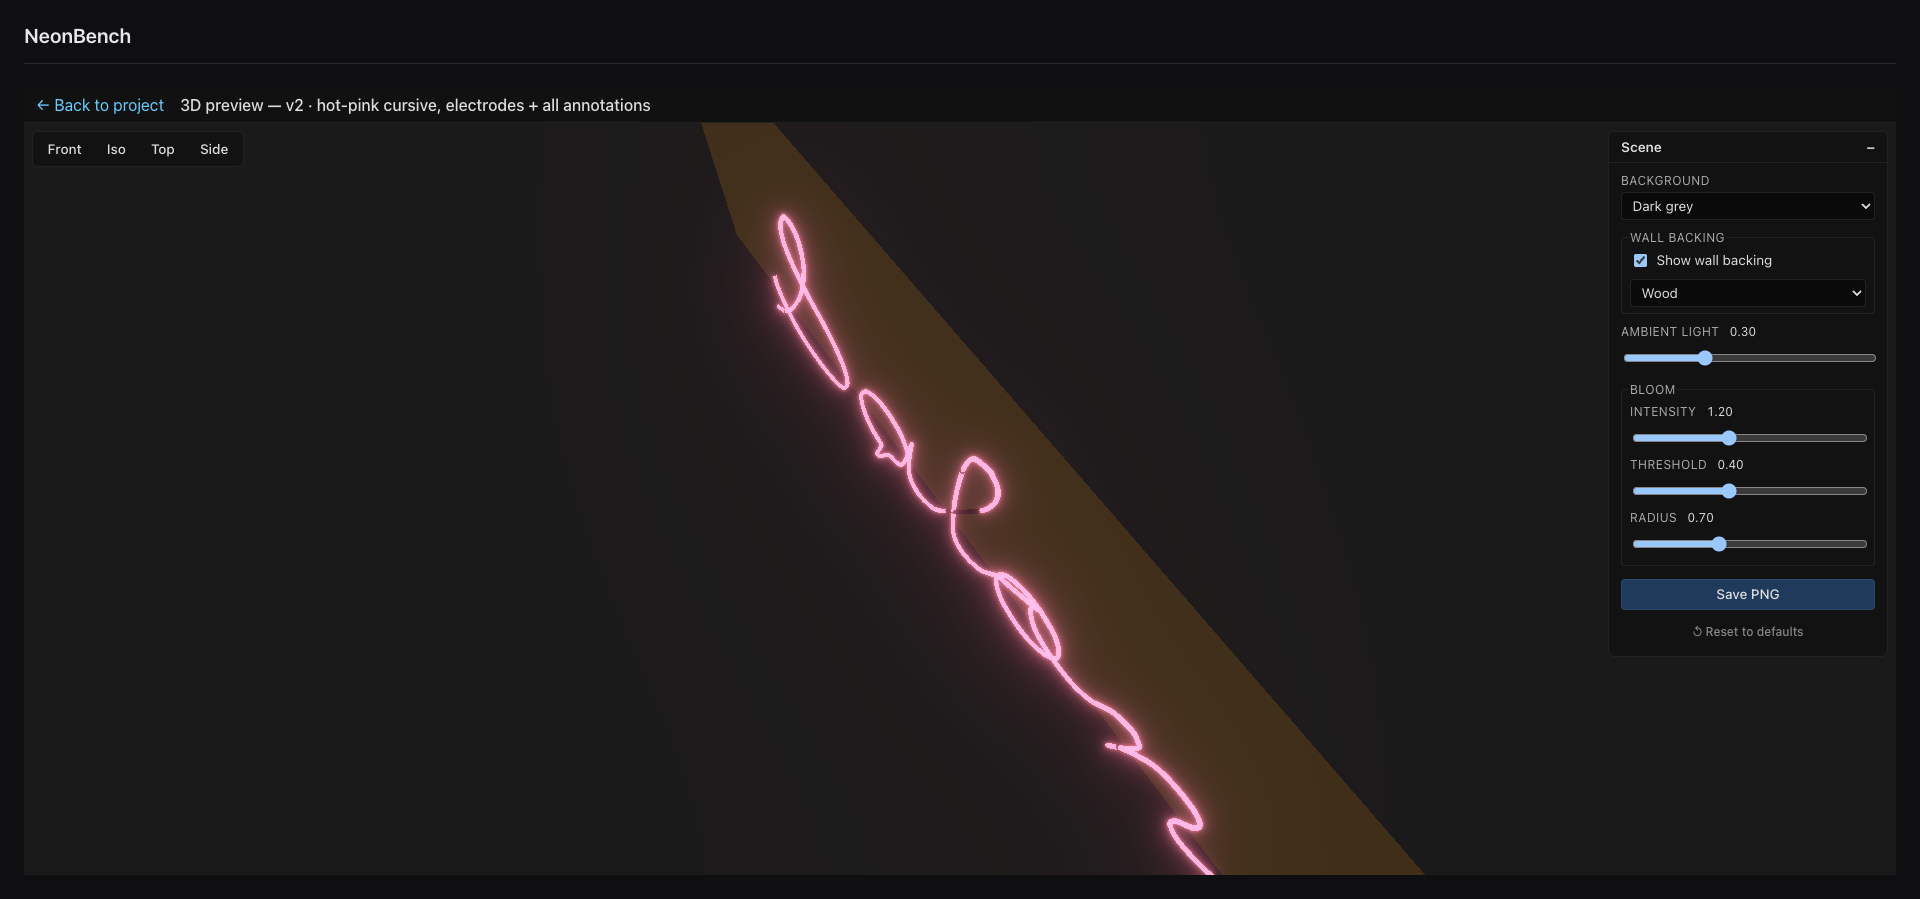
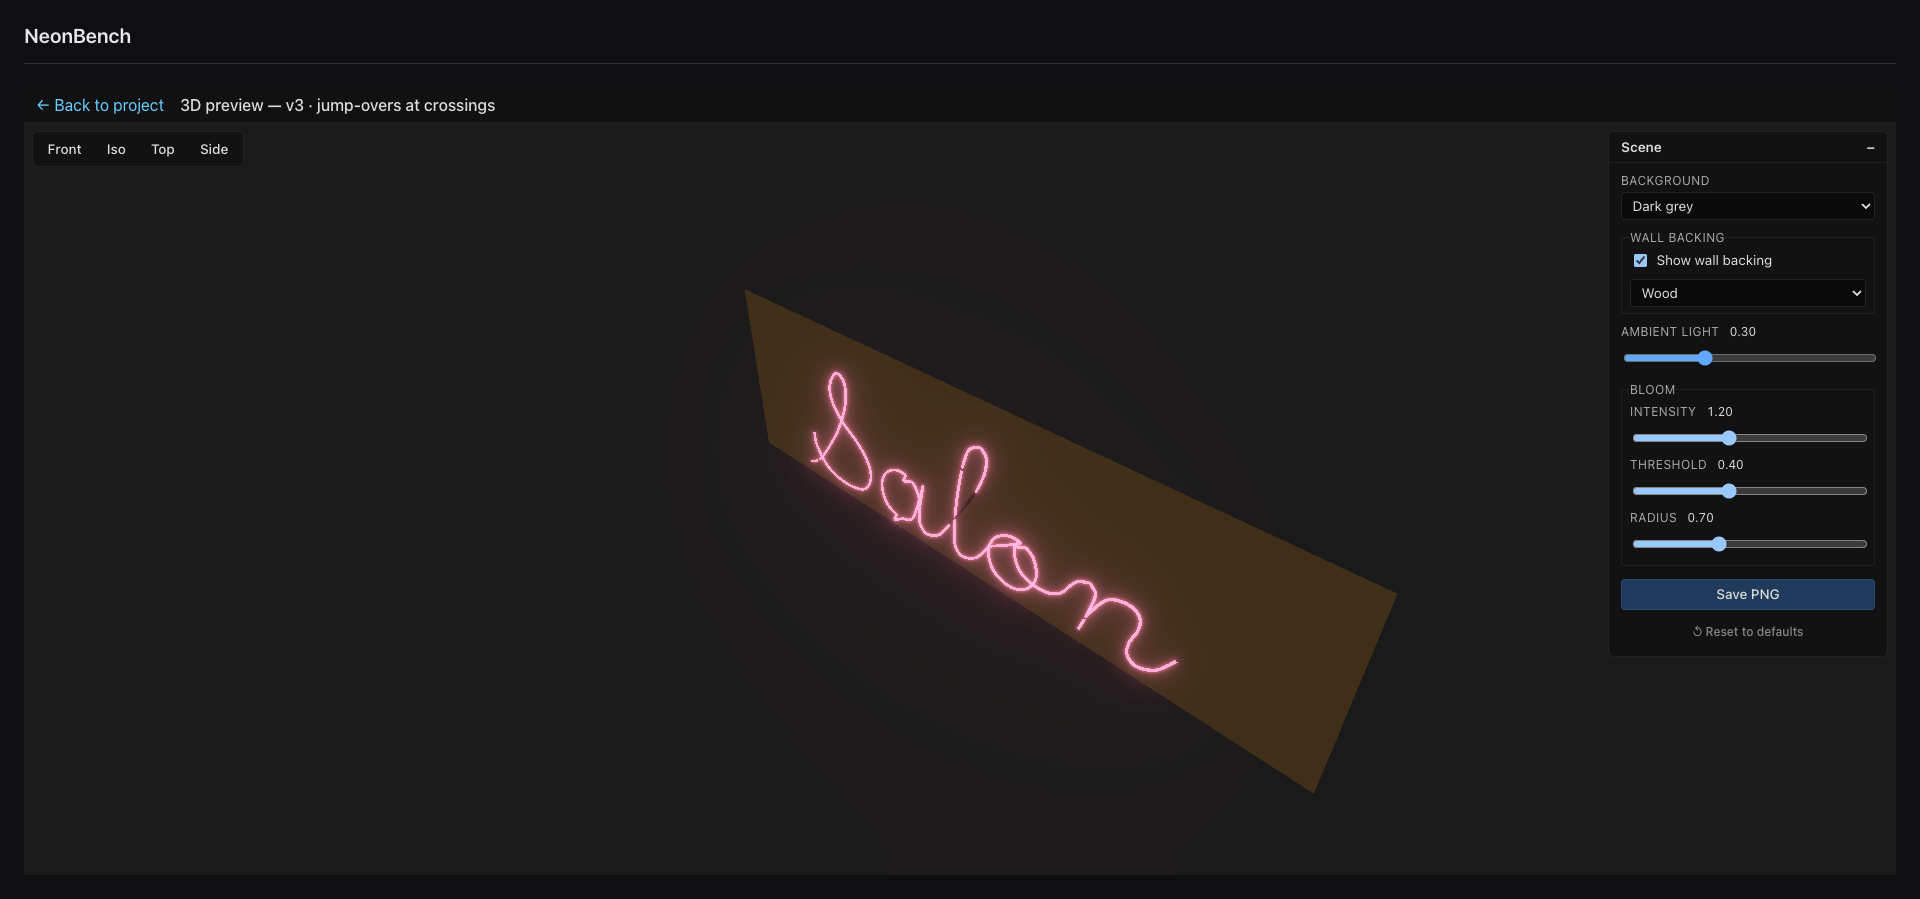
Fix glass-crosses-glass in Salon render; add jump-over guidance + bug-09 spec
The committed 3D renders showed tubes passing through each other at the
cursive crossings: the preview only lifts tubes in Z where a jump is
explicitly marked (Tier 3 #68), and the demo left the four crossings
un-jumped. Marked a jump-over at each crossing (saved as v3) and re-exported
the Iso/Front/PNG hero from the corrected version with the wood wall.

Also corrects the manual: wall backing is OFF by default (not on), and adds
explicit guidance to mark a jump-over at every crossing so glass passes over
glass rather than through it (with the marker-hiding click tip).

Logs the underlying gap as specs/active/bug-09: the preview renders crossing
tubes coplanar by default and nothing links the crossing warning to the jump
tool — proposes auto-depth at detected crossings.

Changed region(s): [[0.3438, 0.1246, 0.75, 0.9967], [0.1562, 0.0934, 0.3438, 0.1246], [0.8438, 0.3737, 0.9062, 0.4049]]

diff --git a/specs/active/bug-09-preview-coplanar-crossings.md b/specs/active/bug-09-preview-coplanar-crossings.md
@@ -1,0 +1,75 @@
+# Bug #09 — 3D preview renders crossing tubes coplanar ("glass crosses glass")
+
+> **Status:** active · drafted 2026-06-05 · found via Playwright manual-authoring session (cursive "Salon" build, project 16) · branch (when dispatched) `task/bug-09-preview-crossing-depth`
+
+## Goal
+
+In the 3D preview, wherever two tubes cross, they render at the **same standoff plane** and the glass
+visibly passes **through** the other tube. Real neon can't do that — at a crossing one tube either
+**jumps over** the other (lifted standoff) or the crossing is hidden with **block-out paint** and the
+tubes sit on different planes.
+
+"Done" means a design with tube crossings no longer shows interpenetrating glass in the preview by
+default — either by auto-offsetting depth at detected crossings, or by making the existing jump
+workflow discoverable enough that the common path produces a physically-plausible render.
+
+## Reproduction (Playwright-verified)
+
+1. New project → **8 mm** tube spec → editor → **Add text** `Salon`, **Cursive** font, cap height 220 mm → Insert.
+2. The validator reports **4 × `crossing_needs_blockout`** (connected cursive crosses itself).
+3. Open the **3D preview** (any camera with an oblique angle, e.g. **Iso**). At each crossing the two
+   pink tubes intersect flat — glass through glass. See the originally-flagged frame:
+   `.playwright-mcp/Salon-preview-2026-06-05T06-14-30Z.png` (not committed; reproduce locally).
+
+## Root cause (code-verified)
+
+- The preview lifts a tube in Z **only** where a `kind: 'jump'` annotation is explicitly placed
+  (Tier 3 #68), via the kernel in [web/src/preview/tube-geom.ts](../../web/src/preview/tube-geom.ts)
+  (`JUMP_LIFT_HEIGHT_MULT = 2.5`, `JUMP_LIFT_SPAN_MULT = 4.0`). A `drop_bend` dips
+  (`DROP_BEND_LIFT_HEIGHT_MULT = 0.5`). With **no** jump at a crossing, both tubes keep the same Z and
+  interpenetrate.
+- Nothing connects the validator's `crossing_needs_blockout` finding to the jump tool: the warning is
+  about **block-out paint** (hiding the unlit tube), a *different* real-world remedy than a jump
+  (physical routing). A user who paints the crossing still gets coplanar glass in 3D.
+- The jump lift is **2.5 × diameter** (≈ 20 mm at 8 mm tube). Against a ~1.4 m-wide sign the lift is
+  geometrically correct (it produces proper occlusion in the **Front** camera) but visually subtle in
+  oblique views — easy to mistake for "still crossing."
+
+## Why it matters
+
+The 3D preview is the customer-facing sign-off render. Glass-through-glass reads as broken, and it
+mis-teaches the engineering: every crossing is a real fabrication decision (jump vs. paint vs. split).
+Today the designer must already *know* to hide the validation markers, then hand-mark a jump on each
+crossing — discovered only by reading the code.
+
+## Proposed remedies (pick one or combine)
+
+1. **Auto-depth at detected crossings (preferred).** Where the geometry detects a crossing, give the
+   "under" tube a small deterministic Z-offset in the preview even without an explicit jump, so glass
+   never interpenetrates by default. Keep explicit jumps as the larger, intentional horseshoe.
+2. **Link the warning to the fix.** On a `crossing_needs_blockout` finding, offer a one-click
+   *"mark jump-over here"* (and/or *"mark block-out here"*) that drops the annotation at the crossing
+   point on the appropriate run.
+3. **Make the lift legible.** Revisit `JUMP_LIFT_HEIGHT_MULT` / falloff so a marked jump reads as a
+   clear over-pass at storefront scale, not a 20 mm bump.
+
+Option 1 fixes the default render with no user action; option 2 makes the existing model
+discoverable; option 3 is polish. 1 + 2 together is the complete fix.
+
+## Workaround (used in the user manual walkthrough)
+
+Hide the warning/error markers (the **Show warnings / Show errors** toggles) so the marker glyphs
+don't intercept clicks, activate **Mark jump**, and click each crossing. Confirm with the **Side**
+camera (standoff profile). Documented in [docs/USER_MANUAL.md](../../docs/USER_MANUAL.md) Part 2 Step 6.
+
+## Tests
+
+- `web/src/preview/tube-geom.test.ts` — add a case: two runs crossing at a shared XY with **no** jump
+  annotation produce **different** Z at the crossing (option 1), so they don't interpenetrate.
+- If option 2: a unit test that a `crossing_needs_blockout` finding exposes a crossing point + run id
+  that the "mark jump" action can consume.
+
+## Out of scope
+
+Block-out **paint rendering** in 3D (showing the opaque painted segment) — that's a separate
+visual-fidelity item; this spec is only about tubes not occupying the same space.

diff --git a/docs/USER_MANUAL.md b/docs/USER_MANUAL.md
@@ -231,13 +231,19 @@ A read-only glowing render of any saved version, available regardless of validat
 
 - **Camera presets** — **Front**, **Iso**, **Top**, **Side**. You can also orbit / zoom freely.
 - **Background** — Black / Dark grey / Neutral grey / White.
-- **Wall backing** — toggle on/off and pick **White / Steel grey / Black / Wood**. Tubes stand off
-  the wall at a realistic depth, casting glow onto it.
+- **Wall backing** — toggle on/off (**off by default**) and pick **White / Steel grey / Black /
+  Wood**. Tubes stand off the wall at a realistic depth, casting glow onto it.
 - **Ambient light** — fill level (0–1).
 - **Bloom** — **Intensity**, **Threshold** (which brightness starts to bloom) and **Radius** —
   this is the neon glow halo.
 - **Save PNG** — exports the current view at full canvas resolution.
 - **Reset to defaults**.
+
+> **Depth at crossings.** The preview only lifts a tube in Z where a **jump** is marked (and dips
+> where a **drop** is marked — see §4.1). It does **not** auto-lift at detected crossings. So
+> wherever two tubes cross, mark a **jump-over** on one of them — otherwise the two render coplanar
+> and the glass appears to pass *through* the other tube instead of *over* it. The **Side** camera is
+> the quickest way to confirm a jump lifted (it shows the standoff profile).
 
 ---
 
@@ -294,7 +300,11 @@ fabrication. NeonBench correctly keeps flagging it; electrodes alone don't divid
 Using the construction-mark tools, we add one of each so the pattern is fully annotated:
 
 - **Mark blockout** — a painted span on the long stroke (two clicks bracket it).
-- **Mark double-back**, **Mark support**, **Mark jump**, **Mark drop** — one each on sensible spots.
+- **Mark jump** — at **each tube crossing**. Connected cursive crosses itself (the validator flags
+  four crossings here); a jump-over lifts one tube in Z so it passes *over* the other in 3D instead
+  of through it. *Tip:* hide the warning/error markers (the **Show warnings/errors** toggles) first
+  so the marker glyphs don't intercept the click, then click right on the crossing.
+- **Mark double-back**, **Mark support**, **Mark drop** — one each on sensible spots.
 - The script's curves already auto-generate bends (21 on the long stroke); **Add bend** drops an
   explicit one.
 
@@ -312,8 +322,11 @@ and label it (here: *hot-pink cursive, electrodes + all annotations*).
 
 ### Step 7 — Render in 3D
 
-Open **3D preview** for the saved version. Wall backing (**Wood**) and **Bloom** are on by default.
-Choose the **Front** camera for a readable hero, or **Iso** for an installed-on-the-wall angle:
+Open **3D preview** for the saved version. **Bloom** is on by default; **wall backing is off** — turn
+on **Show wall backing** and pick **Wood** for a storefront look. Choose the **Front** camera for a
+readable hero, or **Iso** for an installed-on-the-wall angle. Because we marked a jump-over at every
+crossing in Step 6, the tube lifts *over* itself at each one rather than rendering as glass through
+glass:
 
 | Front (hero) | Iso (installed angle) |
 |---|---|
